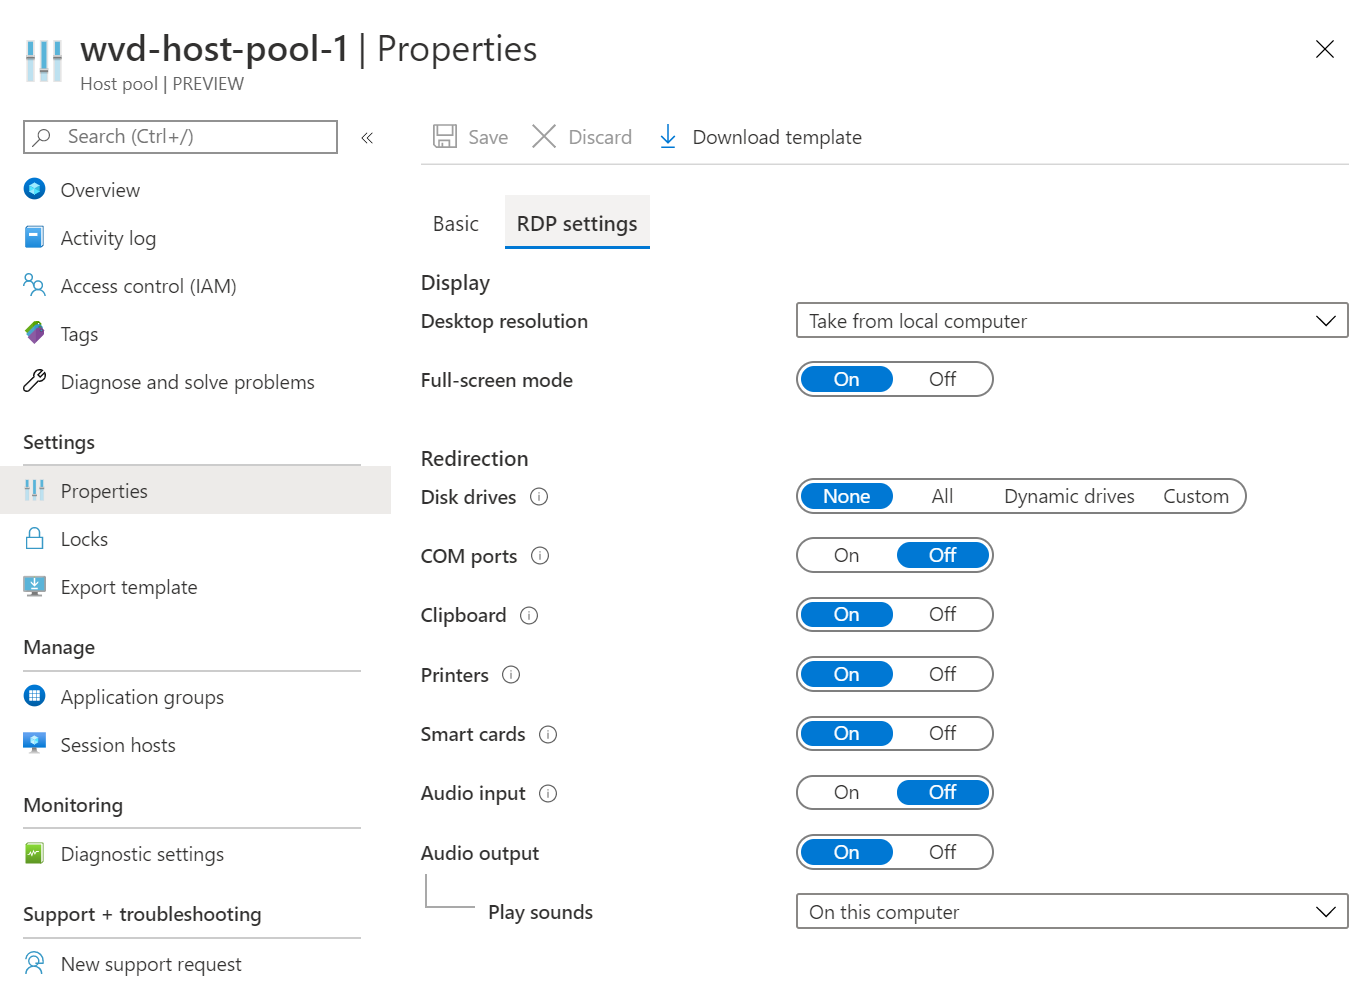
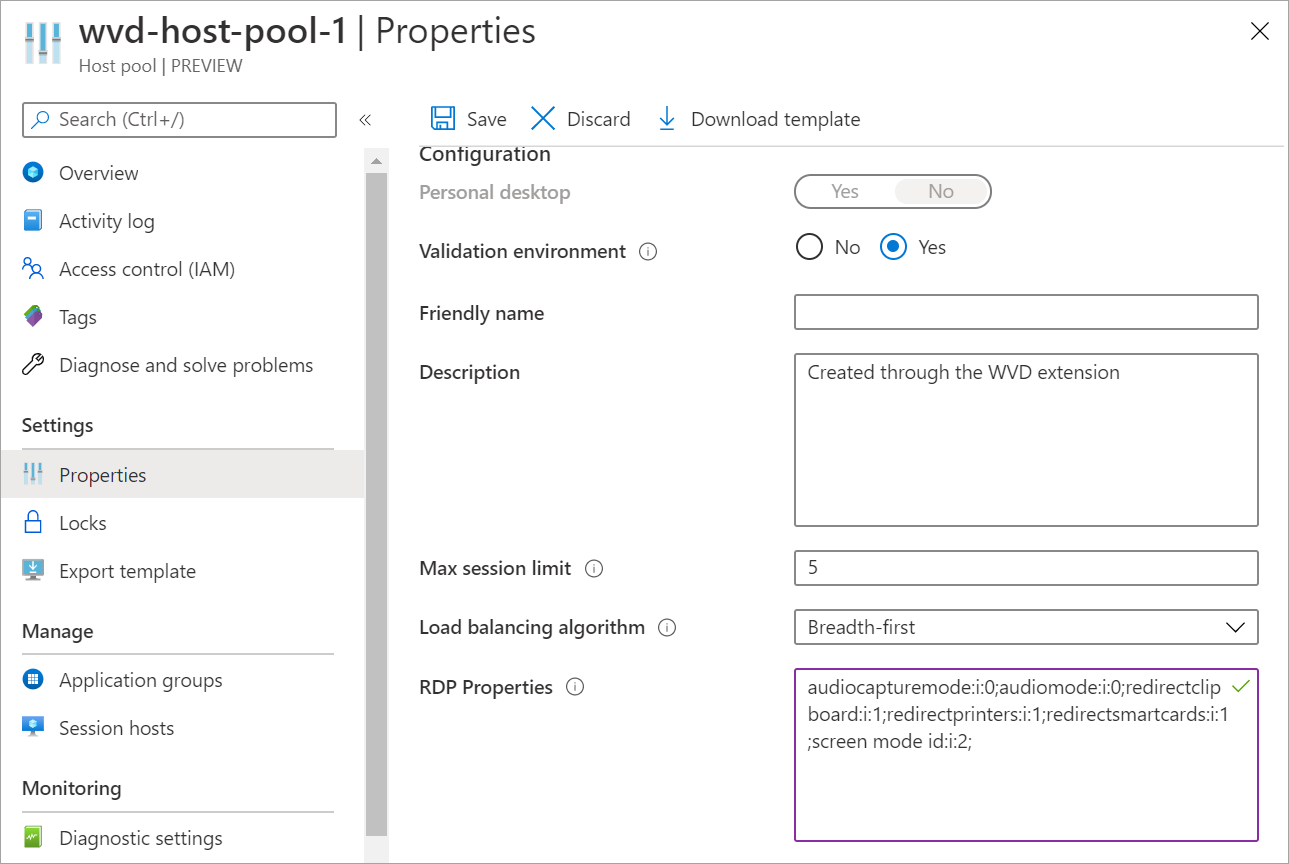
WVD deploy - upd RDP properties section & add link

diff --git a/learn-m365-pr/m365/m365-deploy-wvd/includes/5-customize-workspace.md b/learn-m365-pr/m365/m365-deploy-wvd/includes/5-customize-workspace.md
@@ -27,10 +27,13 @@ To complete the exercise, you'll need the credentials for the user account that 
 1. In **Windows Virtual Desktop**, select **Host pools**.
 1. Select the host pool you want to configure.
 1. Under **Settings**, select **Properties**.
-1. Select **RDP Settings**.
-1. When you're done, select **Save**.
+1. Scroll down to **RDP Properties**.
+1. Enter the RDP properties your users need. For example, you can set the screen mode so the remote session window appears full screen when a user launches the connection.
 
-   :::image type="content" source="../media/5-hostpool-settings-rdp.png" alt-text="Screenshot that shows the RDP settings that are available on the host pool's properties.":::
+   :::image type="content" source="../media/5-hostpool-settings-rdp.png" alt-text="Screenshot that shows the RDP Properties text field with some redirection properties like audiocapturemode and audiomode set.":::
+
+   For the list of supported properties, see [Supported Remote Desktop RDP file settings](https://docs.microsoft.com/windows-server/remote/remote-desktop-services/clients/rdp-files?context=/azure/virtual-desktop/context/context).
+1. When you're done, select **Save**.
 
 ## Install the Windows Virtual Desktop Client for Windows
 

diff --git a/learn-m365-pr/m365/m365-deploy-wvd/includes/7-summary.md b/learn-m365-pr/m365/m365-deploy-wvd/includes/7-summary.md
@@ -21,4 +21,5 @@ Other resources:
 - [Virtual machine sizing guidelines](https://docs.microsoft.com/windows-server/remote/remote-desktop-services/virtual-machine-recs?context=/azure/virtual-desktop/context/context)
 - [Set up email discovery to subscribe to your RDS feed](https://docs.microsoft.com/windows-server/remote/remote-desktop-services/rds-email-discovery)
 - [Customize Remote Desktop Protocol properties for a host pool](https://docs.microsoft.com/azure/virtual-desktop/customize-rdp-properties)
+- [Supported Remote Desktop RDP file settings](https://docs.microsoft.com/windows-server/remote/remote-desktop-services/clients/rdp-files?context=/azure/virtual-desktop/context/context)
 - [Use Azure Firewall to protect Window Virtual Desktop deployments](https://docs.microsoft.com/azure/firewall/protect-windows-virtual-desktop)
